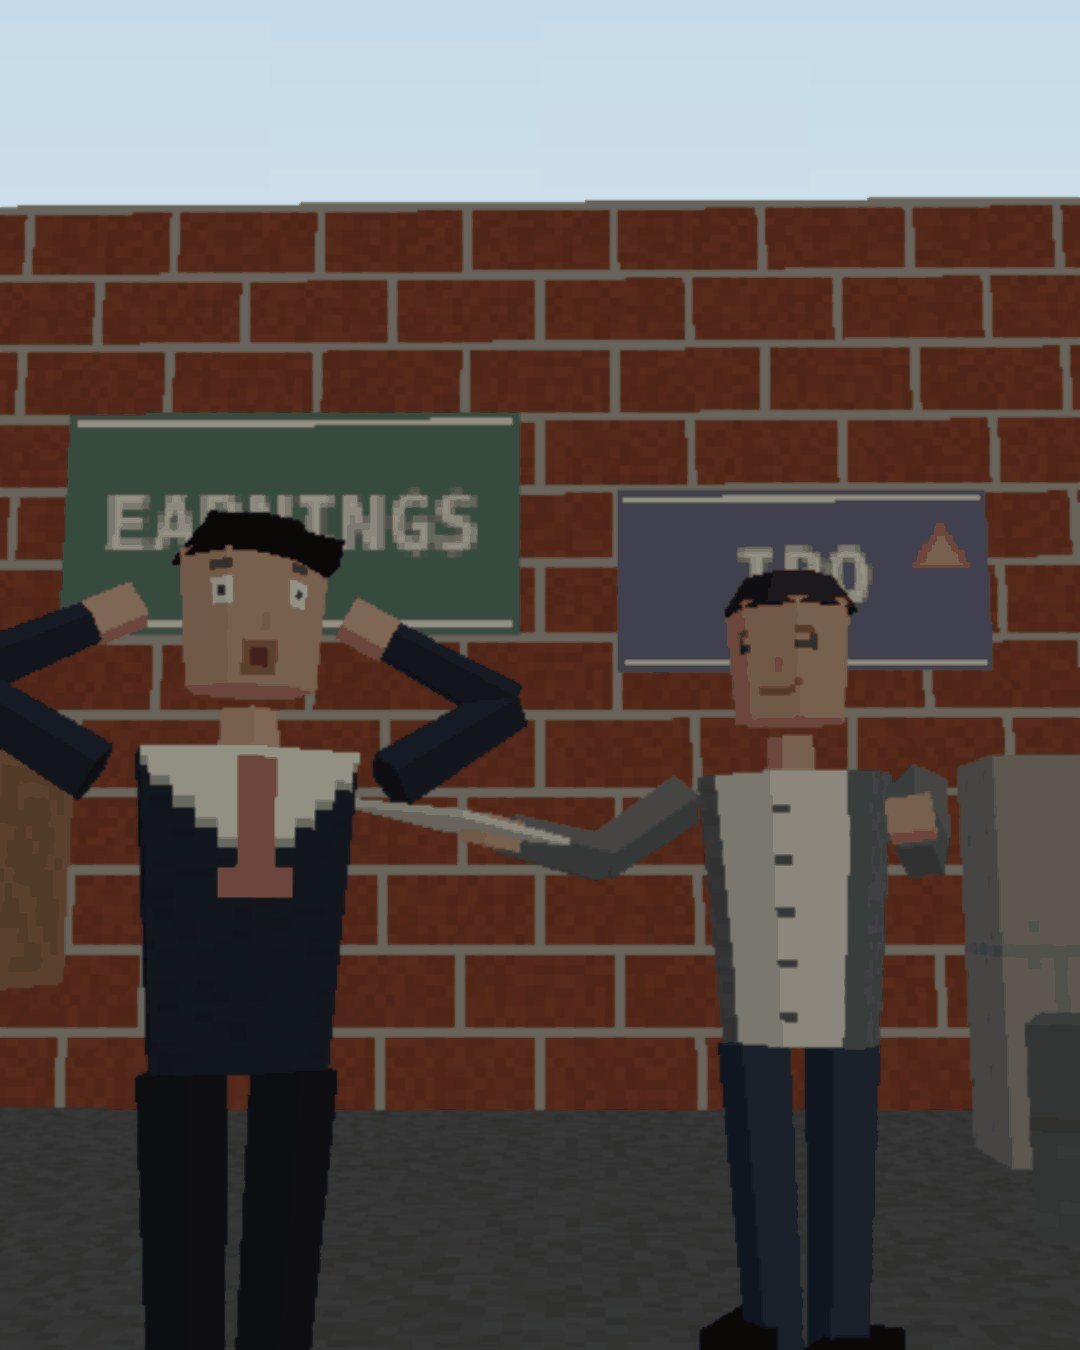
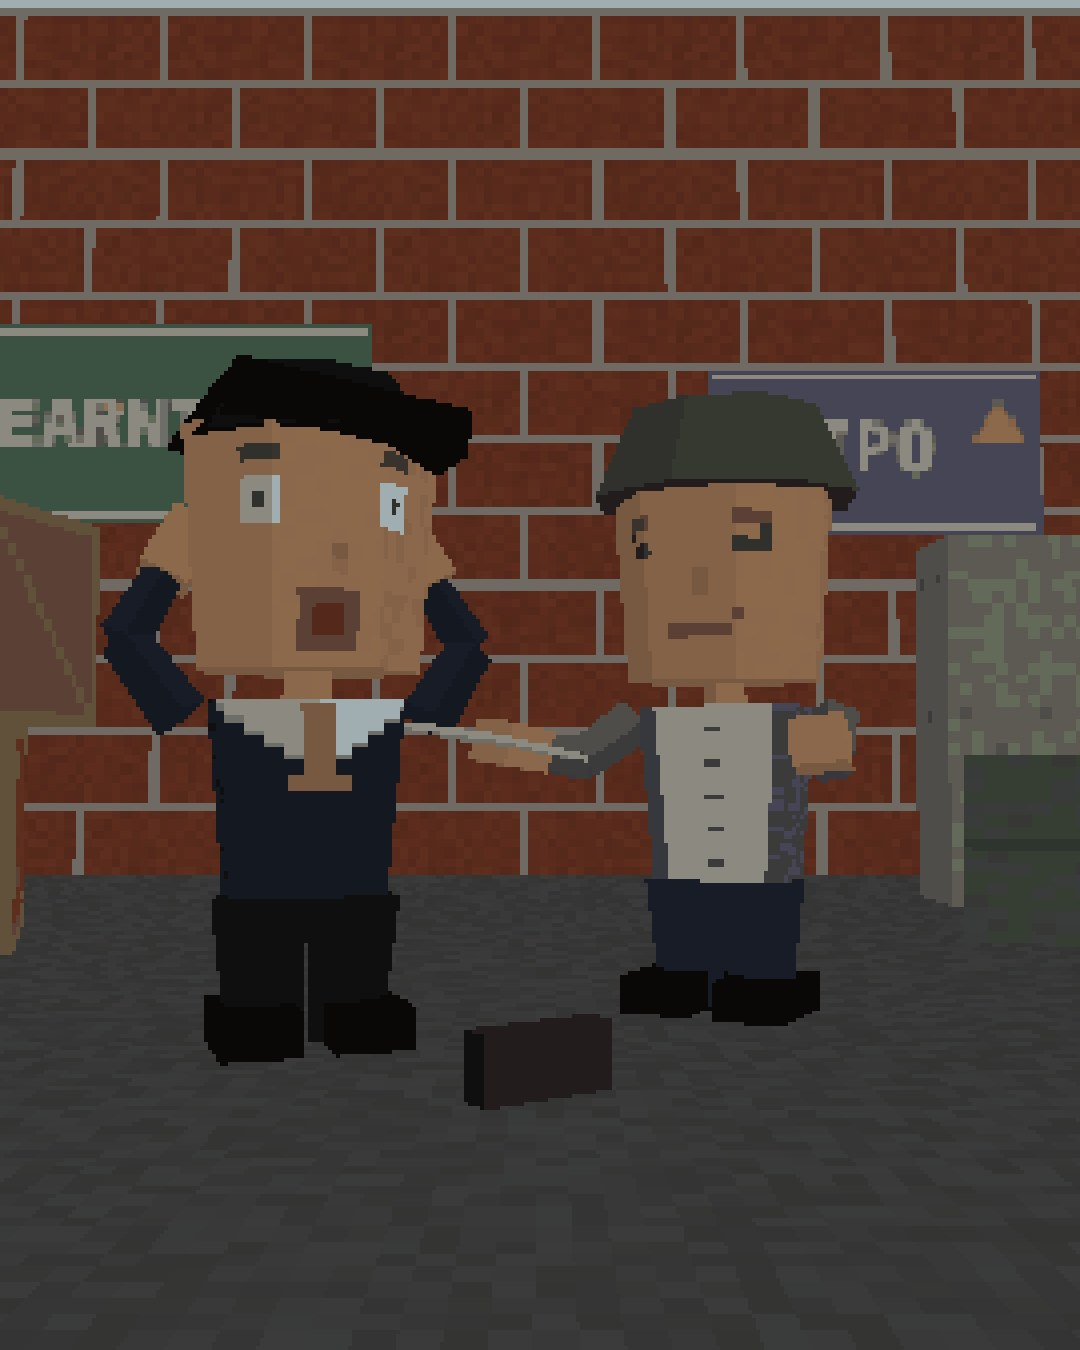
B-grade: SD 2.5-head characters, chunky pixel upscale (Mini FPS look)
Claude-Session: https://claude.ai/code/session_01MKGHoXPC7XDhyZAWdYfQUK

diff --git a/bgrade/scene.js b/bgrade/scene.js
@@ -9,14 +9,14 @@
   renderer.setSize(RW, RH);
   document.body.appendChild(renderer.domElement);
   const scene = new THREE.Scene();
-  const sky = S.sky || ["#8fb3cf", "#d9e2e6"];
+  const sky = S.sky || ["#5fa9ea", "#d4ecfb"];
   scene.background = gradTex(sky[0], sky[1]);
   scene.fog = new THREE.Fog(S.fog || "#b9c4c8", 14, 46);
   const cam = new THREE.PerspectiveCamera(S.cam?.fov || 55, RW / RH, 0.1, 200);
   const cp = S.cam?.pos || [0, 2.2, 6.2], ct = S.cam?.target || [0, 1.5, 0];
   cam.position.set(...cp); cam.lookAt(...ct);
   // 밋밋한 게임 엔진 조명: 앰비언트 + 방향광 하나, 그림자 없음
-  scene.add(new THREE.AmbientLight(0xffffff, 0.62));
+  scene.add(new THREE.AmbientLight(0xffffff, 0.78));
   const sun = new THREE.DirectionalLight(0xfff2dc, 0.75); sun.position.set(4, 9, 6); scene.add(sun);
 
   // ---------- 텍스처 ----------
@@ -144,21 +144,23 @@
   };
   function makeChar(c) {
     const root = new THREE.Group(); const sc = c.scale || 1;
+    // SD(미니 FPS식 2.5등신) 기본. S.sd === false 면 일반 비율
+    const D = S.sd === false ? { leg: 1.3, lw: 1, torso: 1.15, head: 1, arm: 0.62, hand: 1 } : { leg: 0.62, lw: 1.25, torso: 0.82, head: 1.95, arm: 0.4, hand: 1.5 };
     const o = c.outfit || { type: "suit", top: "#262b36" };
     const skin = c.skin || "#d9a77f", hair = c.hair || "#1b1814";
     const clothM = lam({ map: outfitTex(o) }), sleeveM = col(o.top || "#262b36"), pantsM = col(o.pants || "#1f2128");
     const skinM = col(skin), shoeM = col(o.shoes || "#141414"), hairM = col(hair);
     // 다리
     [-0.2, 0.2].forEach((x, i) => {
-      const leg = seg(0.17, 0.13, 1.3, pantsM, 5); leg.position.set(x, 1.3, 0); leg.rotation.z = (i ? -1 : 1) * (c.legSpread || 0.05); root.add(leg);
-      const shoe = new THREE.Mesh(new THREE.BoxGeometry(0.26, 0.16, 0.46), shoeM); shoe.position.set(x * 1.15, 0.08, 0.08); root.add(shoe);
+      const leg = seg(0.17 * D.lw, 0.13 * D.lw, D.leg, pantsM, 5); leg.position.set(x, D.leg, 0); leg.rotation.z = (i ? -1 : 1) * (c.legSpread || 0.05); root.add(leg);
+      const shoe = new THREE.Mesh(new THREE.BoxGeometry(0.26 * D.lw, 0.16 * D.lw, 0.46 * D.lw), shoeM); shoe.position.set(x * 1.15, 0.08, 0.08); root.add(shoe);
     });
     // 몸통(위가 넓은 각진 사다리꼴)
-    const torsoG = new THREE.CylinderGeometry(0.46, 0.36, 1.15, 6, 1, false, -Math.PI); const torso = new THREE.Mesh(torsoG, clothM);
-    torso.scale.z = 0.62; torso.position.y = 1.88; root.add(torso);
+    const torsoG = new THREE.CylinderGeometry(0.46, 0.38, D.torso, 6, 1, false, -Math.PI); const torso = new THREE.Mesh(torsoG, clothM);
+    torso.scale.z = 0.66; torso.position.y = D.leg + D.torso / 2; root.add(torso);
     // 목·머리 (머리는 6각 기둥 + 위아래 뚜껑: 복셀이 아닌 구형 FPS 모델 느낌)
-    const neck = seg(0.11, 0.12, 0.16, skinM, 5); neck.position.y = 2.62; root.add(neck);
-    const head = new THREE.Group(); head.position.y = 2.95 + (c.headLift || 0);
+    const neck = seg(0.11, 0.12, 0.16, skinM, 5); neck.position.y = D.leg + D.torso + 0.12; root.add(neck);
+    const head = new THREE.Group(); head.position.y = D.leg + D.torso + 0.12 + 0.26 * D.head + (c.headLift || 0); head.scale.setScalar(D.head);
     const hg = new THREE.CylinderGeometry(0.29, 0.25, 0.52, 7, 1, false, -Math.PI); const hm = new THREE.Mesh(hg, [lam({ map: faceTex(skin, c.expr, hair) }), hairM, skinM]);
     hm.scale.set(c.headW || 1, 1, 0.92); head.add(hm);
     const crown = new THREE.Mesh(new THREE.CylinderGeometry(0.2, 0.31, 0.16, 7), hairM); crown.position.y = 0.31; crown.scale.z = 0.95; head.add(crown);
@@ -166,20 +168,22 @@
     if (c.hairStyle === "long") { const h3 = new THREE.Mesh(new THREE.CylinderGeometry(0.3, 0.33, 0.6, 7), hairM); h3.position.set(0, -0.08, -0.08); h3.scale.z = 0.8; head.add(h3); }
     if (c.hairStyle === "bald") crown.material = skinM;
     if (c.glasses) { const gl = new THREE.Mesh(new THREE.BoxGeometry(0.42, 0.07, 0.05), col("#111")); gl.position.set(0, 0.05, 0.27); head.add(gl); }
+    if (c.helmet) { const hm2 = new THREE.Mesh(new THREE.CylinderGeometry(0.24, 0.34, 0.22, 8), col(c.helmet)); hm2.position.y = 0.3; head.add(hm2); }
     if (c.cap) { const cp = new THREE.Mesh(new THREE.CylinderGeometry(0.31, 0.31, 0.14, 7), col(c.cap)); cp.position.y = 0.33; head.add(cp); const br = new THREE.Mesh(new THREE.BoxGeometry(0.4, 0.04, 0.3), col(c.cap)); br.position.set(0, 0.28, 0.3); head.add(br); }
     head.rotation.set(c.headTilt?.[0] || 0, c.headTilt?.[1] || 0, c.headTilt?.[2] || 0);
     root.add(head);
     // 팔
-    const P = POSES[c.pose || "idle"] || POSES.idle;
+    const POSES_SD = { head_grab: { l: [-0.25, 0, 2.55], r: [-0.25, 0, -2.55], le: 0, re: 0, lez: 1.1, rez: -1.1 }, facepalm: { l: [0.1, 0, 0.2], r: [-1.2, 0, -2.2], le: 0.2, re: 0, rez: -0.6 } };
+    const P = (S.sd !== false && POSES_SD[c.pose]) || POSES[c.pose || "idle"] || POSES.idle;
     [["l", 1], ["r", -1]].forEach(([k, s]) => {
-      const sh = new THREE.Group(); sh.position.set(0.55 * s, 2.36, 0);
-      const ua = seg(0.13, 0.11, 0.62, sleeveM, 5); sh.add(ua);
-      const el = new THREE.Group(); el.position.y = -0.62; sh.add(el);
-      const fa = seg(0.11, 0.09, 0.56, sleeveM, 5); el.add(fa);
-      const hand = new THREE.Mesh(new THREE.BoxGeometry(0.15, 0.2, 0.12), skinM); hand.position.y = -0.66; el.add(hand);
+      const sh = new THREE.Group(); sh.position.set(0.53 * s, D.leg + D.torso - 0.08, 0);
+      const ua = seg(0.13, 0.11, D.arm, sleeveM, 5); sh.add(ua);
+      const el = new THREE.Group(); el.position.y = -D.arm; sh.add(el);
+      const fa = seg(0.11, 0.09, D.arm * 0.9, sleeveM, 5); el.add(fa);
+      const hand = new THREE.Mesh(new THREE.BoxGeometry(0.15 * D.hand, 0.2 * D.hand, 0.13 * D.hand), skinM); hand.position.y = -D.arm * 0.9 - 0.08 * D.hand; el.add(hand);
       sh.rotation.set(P[k][0], P[k][1], P[k][2]); el.rotation.x = -(k === "l" ? P.le : P.re); el.rotation.z = (k === "l" ? P.lez : P.rez) || 0;
       root.add(sh);
-      if (c.prop && ((c.propHand || "r") === k)) el.add(makeProp(c.prop, -0.78));
+      if (c.prop && ((c.propHand || "r") === k)) el.add(makeProp(c.prop, -D.arm * 0.9 - 0.2));
     });
     root.position.set(...(c.pos || [0, 0, 0])); root.rotation.y = c.ry || 0; root.scale.setScalar(sc);
     scene.add(root);

diff --git a/bgrade/render.py b/bgrade/render.py
@@ -18,8 +18,8 @@ def main():
     out = sys.argv[2]
     W = int(sys.argv[3]) if len(sys.argv) > 3 else 1080
     H = int(sys.argv[4]) if len(sys.argv) > 4 else 1350
-    spec.setdefault("render_w", round(W / 2.5))
-    spec.setdefault("render_h", round(H / 2.5))
+    spec.setdefault("render_w", round(W / 4))
+    spec.setdefault("render_h", round(H / 4))
     three = open(os.path.join(HERE, "vendor", "three.min.js")).read()
     scene_js = open(os.path.join(HERE, "scene.js")).read()
     html = ("<html><body style='margin:0;background:#000'>"
@@ -39,8 +39,8 @@ def main():
             print("JS errors:", errs)
     im = Image.open(tmp).convert("RGB")
     # 옛날 게임 화면: 살짝 뭉개진 확대 + 약한 색 단계 감소
-    im = im.resize((W, H), Image.BILINEAR).filter(ImageFilter.SMOOTH)
-    im = im.quantize(colors=96, dither=Image.Dither.NONE).convert("RGB")
+    im = im.quantize(colors=64, dither=Image.Dither.NONE).convert("RGB")
+    im = im.resize((W, H), Image.NEAREST)  # 픽셀이 그대로 보이게(미니 FPS 저해상도 스크린샷 느낌)
     im.save(out, quality=88)
     os.remove(tmp)
     print(out)

diff --git a/bgrade/STYLE_GUIDE.md b/bgrade/STYLE_GUIDE.md
@@ -3,6 +3,7 @@
 > "그림은 B급, 정보는 A급." 진지한 경제뉴스를 설명하는데 등장인물은 옛날 저사양 FPS 게임에서 튀어나온 것 같은 웃기고 투박한 3D 캐릭터.
 
 ## 1. 핵심 스타일
+(2026-11-16 사용자 보완) 미니서든어택처럼 큰 머리의 SD(약 2.5등신) 캐릭터 + 픽셀이 그대로 보이는 저해상도 화면이 기준.
 초창기 온라인 FPS(미니서든어택/X Operations 시절) 특유의 저폴리곤 3D 게임 그래픽. 현대적인 고퀄리티 일러스트가 아니라 2000년대 초반 PC 게임의 투박하고 어색한 3D 그래픽.
 
 ## 2. 그래픽 필수 설정
@@ -25,8 +26,9 @@ Low Poly 3D Character · Retro FPS Game Graphics · Early 2000s PC Game Aestheti
 - 웃음은 캐릭터의 어색함과 상황의 부조화에서.
 
 ## 구현 (자동 작업용)
-- 렌더러: `python3 bgrade/render.py scene.json out.jpg [W H]` (기본 1080x1350). headless Chromium + three.js(bgrade/vendor, MIT)로 저해상도로 그린 뒤 확대.
+- 렌더러: `python3 bgrade/render.py scene.json out.jpg [W H]` (기본 1080x1350). headless Chromium + three.js(bgrade/vendor, MIT)로 1/4 해상도로 그린 뒤 픽셀 그대로(NEAREST) 확대. 캐릭터는 기본 SD 비율("sd": false면 일반 비율 — 쓰지 않음).
 - scene.json: `map`(alley·street·warehouse·rooftop), `cam`{pos,target,fov}, `signs`[{text,arrow:"up"/"down",bg,pos,w,size}], `chars`[{pos,ry,expr,pose,outfit{type:suit/hoodie/vest,top,shirt,tie,pants},skin,hair,hairStyle:side/long/bald,cap,prop,propHand,headTilt}], `items`[{type,pos,ry,scale}].
+  - sd(기본 true) · `chars[].helmet`(색) 추가 가능
   - expr: neutral·shock·happy·smug·sad·cry·angry / pose: idle·hands_up·cheer·point·facepalm·hold·shrug·head_grab·wallet_empty / prop: money·phone·briefcase·chart·receipt
-- 카드 글이 아래쪽 약 45%를 덮으므로 캐릭터 얼굴은 화면 위쪽 절반에 오게 카메라를 잡는다(예: cam.pos y≈1.9, target y≈2.75).
+- 카드 글이 아래쪽 약 45%를 덮으므로 캐릭터 얼굴은 화면 위쪽 절반에 오게 카메라를 잡는다(SD 기준 예: cam.pos [0.2,1.2,6.2], target [0.2,1.55,0], fov 50 — 캐릭터는 z 0~-1 근처, 간판은 y 4~4.6).
 - 렌더한 이미지를 make_cards_mz.py spec의 "photo"로 넣는다. 예시: samples/bgrade-v1/.
